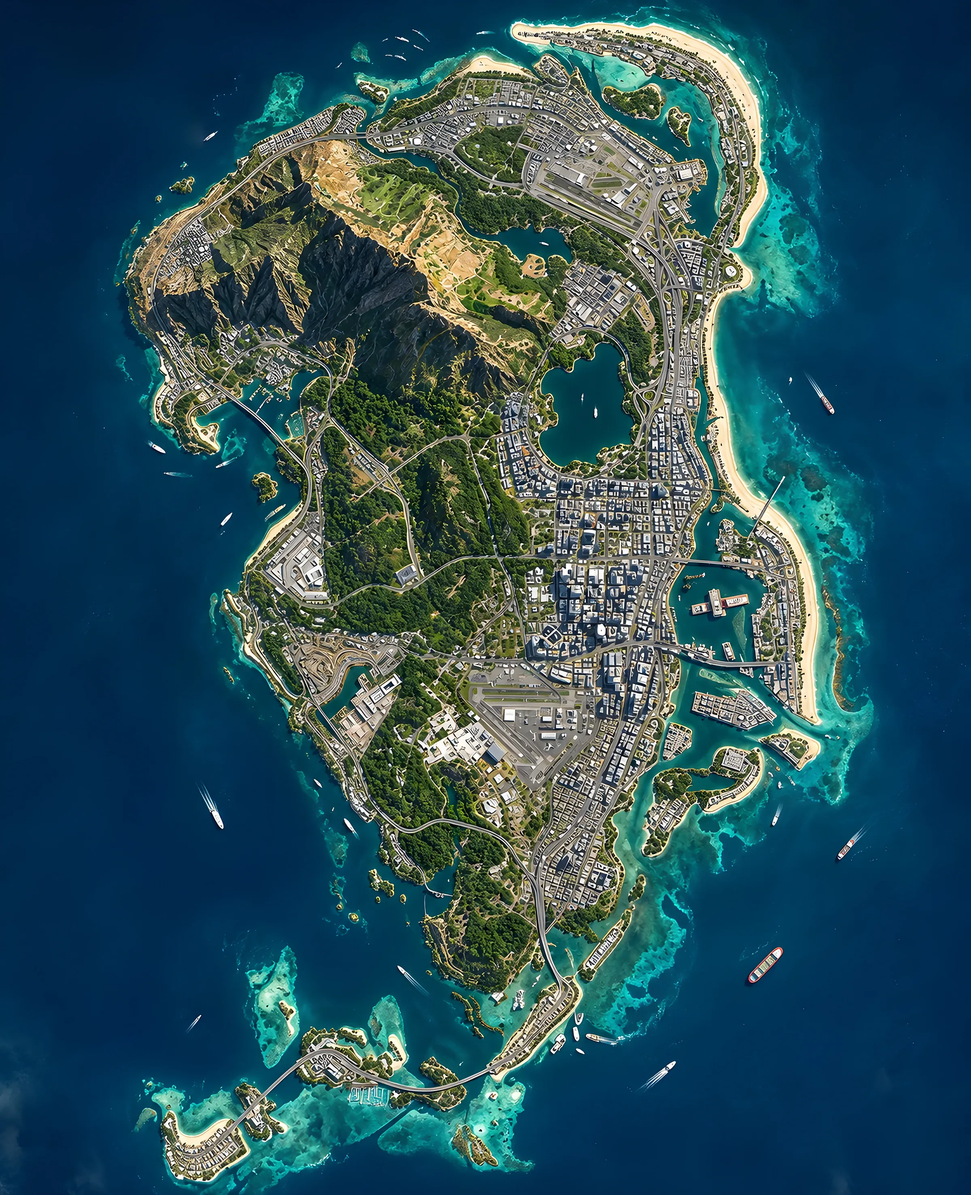
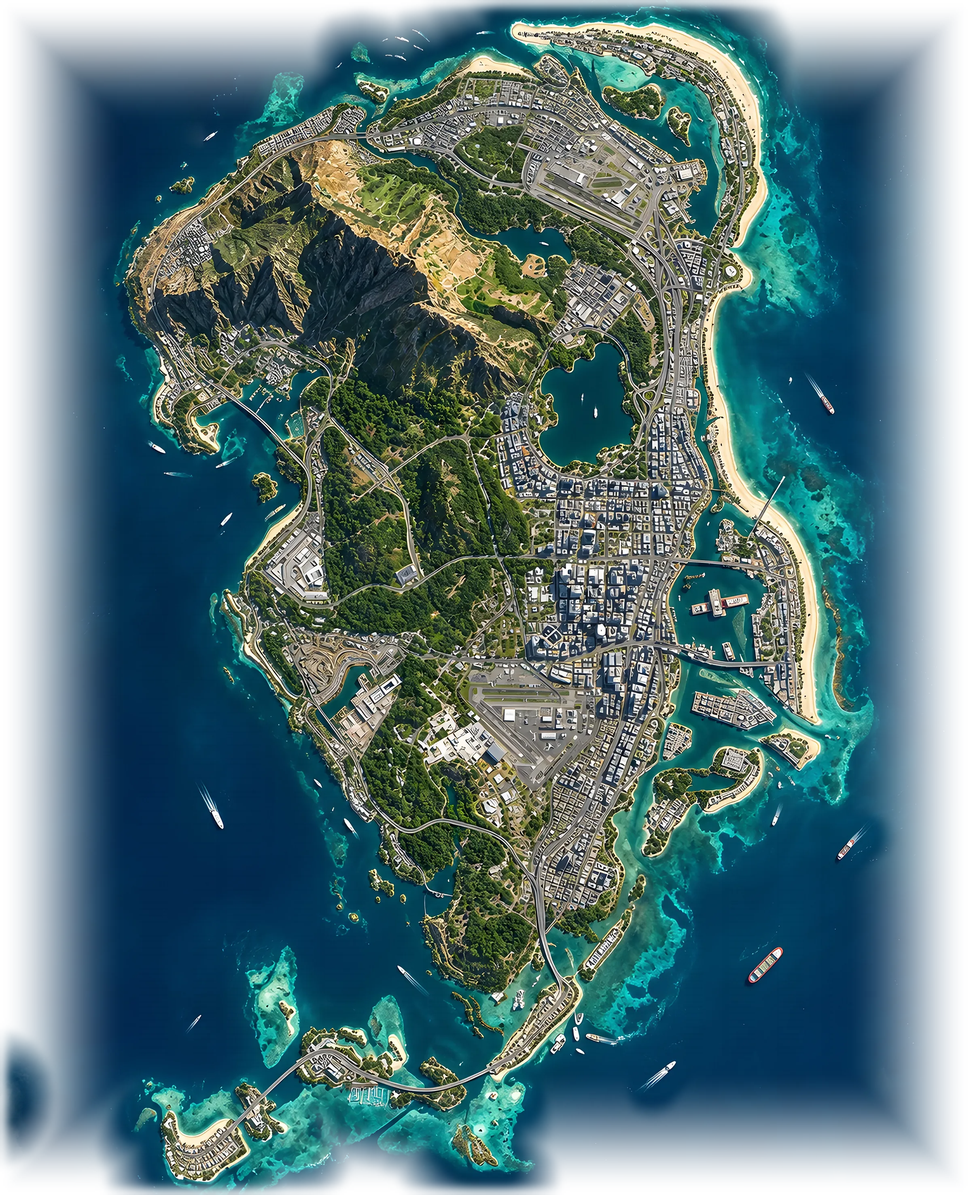
Phone map: free drag/pinch like Google Maps, no cut edges, fewer layouts
- On phones the map is always in free mode: drag to move, pinch to zoom
  (up to 6x fit, never past the whole map), tap a stop to open it. goTo()
  flies the free camera (new world.flyTo), so start / jump-now / stop list /
  #m-N / the phone's map tab all work. '📍 אנחנו כאן' in the phone's map tab
  and as a round button on the site; free-roam/back buttons hidden.
- map-lite.webp now has the edge fade baked in as alpha (no runtime mask), so
  the map no longer ends in a hard rectangle on phones.
- Phone page: the status-bar area matches the map/clips tab instead of a light band.
- world.view() caches the stage size (ResizeObserver) instead of reading
  clientWidth on every projected point - forced layout dozens of times per frame.
- Free mode skips frames while the camera is still.

Claude-Session: https://claude.ai/code/session_018kasLg3a1pY8kQGjxqJqFQ

Changed region(s): [[0.0, 0.0, 1.0, 1.0]]

diff --git a/src/main.ts b/src/main.ts
@@ -85,6 +85,9 @@ function makeClouds(urls: string[]) {
 
 // ── העולם ──
 let onMapReady: (() => void) | null = null;
+// בטלפון: המפה עובדת כמו Google Maps – גוררים כדי לזוז, צובטים לזום, לוחצים על עצירה. בלי "גלילה" בין עצירות
+const freeMap = !flat && matchMedia('(max-width: 760px), (pointer: coarse)').matches;
+if (freeMap) stage.classList.add('is-freemap');
 const world = createWorld(stage, () => {
   rebuild();
   stage.classList.add('is-ready');
@@ -133,6 +136,15 @@ function rebuild() {
   liveTrail = trail;
   life?.setTrail(trail);
   buildLamps(trail);
+  // בטלפון: נכנסים למצב חופשי רק אחרי שיש מסלול, מהמצלמה של מבט הפתיחה (כל המפה)
+  if (freeMap && !world.exploring()) {
+    requestAnimationFrame(() => {
+      if (world.exploring() || !curve) return;
+      frame(true);
+      world.explore(true);
+      if (focus >= 0) goTo(Math.round(focus)); // קישור ישיר / טאב המפה: טסים לעצירה
+    });
+  }
 
   const sNow = cur >= 0 ? curve.stopS[cur] : 0;
   const done = curve.path(0, sNow || 0.01);
@@ -806,12 +818,28 @@ addEventListener('keydown', (e) => {
 
 // ── גרירה חופשית ──
 function explore(on: boolean) {
+  if (freeMap && !on) return; // בטלפון תמיד במצב חופשי
   world.explore(on);
   document.documentElement.classList.toggle('no-scroll', on);
   if (!on) frame(true);
 }
 q('[data-explore]').onclick = () => explore(true);
 q('[data-explore-close]').onclick = () => explore(false);
+// "אנחנו כאן": בטלפון טס לעצירה הנוכחית (בתוך הטלפון – בשורת הכפתורים; באתר – כפתור עגול)
+{
+  const here = q<HTMLButtonElement>('[data-here]');
+  here.hidden = !freeMap;
+  here.onclick = () => goTo(cur);
+  if (freeMap && !embed) {
+    const fab = h('button', { type: 'button', class: 'here-fab', ariaLabel: 'אנחנו כאן: לעצירה הנוכחית' }, '📍');
+    fab.onclick = () => goTo(cur);
+    stage.append(fab);
+  }
+  // גרירה ראשונה בטלפון מסתירה את כרטיס הפתיחה (נכנסים למפה)
+  stage.addEventListener('pointermove', () => {
+    if (freeMap && focus < -0.5 && stage.classList.contains('is-dragging') && data?.missions.length) focus = shown = 0;
+  });
+}
 
 // ── גלילה ← מצלמה: האתר לא נגלל; גלילה למעלה מקדמת במסע, גלילה למטה חוזרת ──
 const PX_WHEEL = 300; // כמה פיקסלים של גלגלת לכל עצירה
@@ -829,6 +857,14 @@ function layout() {}
 
 function goTo(i: number) {
   if (flat || !data) return;
+  // בטלפון: טסים לעצירה (או לכל המפה) במצלמה החופשית
+  if (freeMap && world.exploring() && curve) {
+    focus = shown = clampF(i);
+    const p = i >= 0 ? curve.stops[Math.min(i, curve.stops.length - 1)] : null;
+    const { w: W, h: H } = world.size();
+    world.flyTo(p ? { x: p.x, y: p.y, z: world.fitZ() * 3.2 } : { x: W / 2, y: H / 2, z: world.fitZ() });
+    return;
+  }
   focus = clampF(i);
   travelTo = Math.abs(focus - shown) > 1.5 && i >= 0 ? focus : null;
   if (reduce) shown = focus;
@@ -1017,6 +1053,7 @@ window.addEventListener('oded:fx', (e) => {
 });
 
 let last = performance.now();
+let lastFreeKey = '';
 function frame(force = false) {
   if (!curve || !data) return;
   const now = performance.now();
@@ -1032,6 +1069,14 @@ function frame(force = false) {
   const wantTilt = reduce || world.exploring() ? 0 : tripTilt * easeT;
   const settling = Math.abs(wantShift - panelShift) > 0.5 || Math.abs(wantTilt - tiltShown) > 0.05;
   if (!force && Math.abs(focus - shown) < 0.0004 && !world.exploring() && !settling) return;
+  // מצב חופשי (טלפון): כשהמצלמה עומדת, הדמות במקום ואין סקר – אין מה לצייר מחדש
+  if (world.exploring() && !force && !settling) {
+    const c = world.camera();
+    const key = `${c.x.toFixed(2)}|${c.y.toFixed(2)}|${c.z.toFixed(5)}|${shown}|${cur}`;
+    const still = key === lastFreeKey && (playerS === null || !curve.stops[cur] || Math.abs(curve.sOf(cur) - playerS) < 0.5) && !control.pollAt();
+    lastFreeKey = key;
+    if (still) return;
+  }
   const k1 = force || reduce ? 1 : 1 - Math.exp(-dt * 6);
   shown += (focus - shown) * k1;
   panelShift += (wantShift - panelShift) * (force || reduce ? 1 : 1 - Math.exp(-dt * 8));

diff --git a/src/journey/world.ts b/src/journey/world.ts
@@ -112,7 +112,12 @@ export function createWorld(stage: HTMLElement, onSize: (w: number, h: number) =
     });
   }
 
-  const view = () => ({ w: stage.clientWidth, h: stage.clientHeight });
+  // גודל הבמה נשמר ומתעדכן רק בשינוי גודל: קריאה ל-clientWidth בכל הקרנה של נקודה גרמה לחישוב פריסה מחדש עשרות פעמים בפריים
+  let vsize = { w: stage.clientWidth, h: stage.clientHeight };
+  const measure = () => (vsize = { w: stage.clientWidth, h: stage.clientHeight });
+  new ResizeObserver(measure).observe(stage);
+  addEventListener('resize', measure);
+  const view = () => (vsize.w ? vsize : measure());
 
   /** זום שבו כל המפה נכנסת במסך */
   function fitZ() {
@@ -176,7 +181,8 @@ export function createWorld(stage: HTMLElement, onSize: (w: number, h: number) =
   // לא מתרחקים יותר מכל המפה על המסך (התרחקות מעבר לזה שברה את התצוגה)
   const minZ = () => fitZ();
   // לא מתקרבים מעבר למה שיש לו פיקסלים אמיתיים (אחרת מטושטש)
-  const maxZ = () => Math.max(fitZ() * 2.5, Math.min(fitZ() * 10, ((hdSets[hdSets.length - 1]?.set.w ?? W) / W) / devicePixelRatio));
+  const coarse = matchMedia('(max-width: 760px), (pointer: coarse)').matches;
+  const maxZ = () => (coarse ? fitZ() * 6 : Math.max(fitZ() * 2.5, Math.min(fitZ() * 10, ((hdSets[hdSets.length - 1]?.set.w ?? W) / W) / devicePixelRatio)));
 
   /** גבולות: מרכז המצלמה נשאר בתוך המפה */
   // בטיול חופשי מותר לצאת גם אל הים שמסביב למפה (עד שליש מפה לכל צד)
@@ -356,6 +362,22 @@ export function createWorld(stage: HTMLElement, onSize: (w: number, h: number) =
       tilt = deg;
     },
     tilt: () => tilt,
+    /** טיסה רכה של המצלמה החופשית לנקודה (בטלפון: לחיצה על "אנחנו כאן", עצירה מהרשימה וכו') */
+    flyTo(t: { x: number; y: number; z: number }, ms = 900) {
+      if (!free) return;
+      cancelAnimationFrame(glide);
+      const from = { ...free };
+      const z1 = Math.min(maxZ(), Math.max(minZ(), t.z));
+      const to = { x: bound(t.x, W), y: bound(t.y, H) };
+      const start = performance.now();
+      const step = () => {
+        const k = Math.min(1, (performance.now() - start) / ms);
+        const e = 1 - Math.pow(1 - k, 3);
+        free = raw = { x: from.x + (to.x - from.x) * e, y: from.y + (to.y - from.y) * e, z: from.z * Math.pow(z1 / from.z, e) };
+        if (k < 1) glide = requestAnimationFrame(step);
+      };
+      glide = requestAnimationFrame(step);
+    },
     explore(on: boolean) {
       cancelAnimationFrame(glide);
       free = on ? { ...cam } : null;

diff --git a/index.html b/index.html
@@ -30,7 +30,7 @@
             <p class="stamp"><img class="opening__logo" src="./icons/oded-96.png" alt="" width="40" height="40" />OdedSVR · המסע</p>
             <h1 class="opening__title" id="journey-title">סאבתון GTA 6</h1>
             <p class="opening__how">כל משימה מהסאבתון, במקום שבו היא קרתה, וכל מה שקרה בדרך: מיתות, רכבים, החלטות של הצ׳אט וסטוריז שלכם. גוללים כדי לנסוע לאורך המסלול, לוחצים על סימן כדי לפתוח אותו.</p>
-            <p class="opening__hint"><span class="hint-desk">גוללים למעלה כדי להתקדם, ולמטה כדי לחזור</span><span class="hint-touch">מחליקים ימינה כדי להתקדם, ושמאלה כדי לחזור</span></p>
+            <p class="opening__hint"><span class="hint-desk">גוללים למעלה כדי להתקדם, ולמטה כדי לחזור</span><span class="hint-touch">גוררים כדי לטייל במפה, צובטים לזום, לוחצים על עצירה כדי לפתוח</span></p>
             <div class="opening__actions">
               <button class="btn btn--primary" type="button" data-start>מתחילים מההתחלה</button>
               <button class="btn" type="button" data-jump-now>קפיצה לעכשיו</button>
@@ -47,6 +47,7 @@
             <div class="locator" data-locator aria-hidden="true"></div>
             <div class="hud__actions">
               <button class="btn btn--small" type="button" data-cinema>מצב קולנוע</button>
+              <button class="btn btn--small" type="button" data-here hidden>📍 אנחנו כאן</button>
               <button class="btn btn--small" type="button" data-list hidden>כל העצירות</button>
               <button class="btn btn--small" type="button" data-explore>לטייל חופשי</button>
             </div>

diff --git a/src/control/control.css b/src/control/control.css
@@ -627,7 +627,7 @@ button.pc__opt:active { transform: scale(0.985); }
 .hud__actions [data-list][hidden] { display: none !important; }
 .is-embed .hud__actions .btn { min-height: 44px; padding: 0 16px; font-size: 15px; }
 .is-embed .locator { display: block !important; position: absolute; left: 14px; right: auto; bottom: calc(14px + var(--safe-b, 0px)); z-index: 6; }
-.is-embed .is-free .hud__actions { display: none !important; }
+.is-embed .is-free:not(.is-freemap) .hud__actions { display: none !important; }
 /* עמוד עצירה פתוח (מסך מלא): הכפתורים הצפים לא מסתירים את התוכן */
 .journey__stage:has(.panel.is-menu[data-open]) :is(.phone-btn, .poll-chip) { display: none !important; }
 
@@ -664,3 +664,9 @@ button.pc__opt:active { transform: scale(0.985); }
   .poll-line path { filter: none; animation: none; }
   .ticker__win { mask-image: none; -webkit-mask-image: none; }
 }
+
+/* ── טלפון: מפה חופשית (גרירה/צביטה) ── */
+.is-freemap .explore-close, .is-freemap [data-explore] { display: none !important; }
+.is-freemap.is-free { cursor: default; }
+.here-fab { position: absolute; z-index: 7; right: 12px; bottom: calc(150px + var(--safe-b, 0px)); display: grid; place-items: center; width: 48px; height: 48px; padding: 0; border-radius: 50%; border: 1px solid var(--m-edge); background: rgba(8, 12, 22, 0.9); font-size: 22px; box-shadow: 0 6px 16px rgba(0, 0, 0, 0.45); cursor: pointer; }
+.journey__stage:has(.panel.is-menu[data-open]) .here-fab { display: none; }

diff --git a/src/phone-app/app.css b/src/phone-app/app.css
@@ -324,3 +324,6 @@ body[data-tab]:not([data-tab='home']) .app { grid-template-rows: 1fr calc(var(--
 .cmts__who { overflow: hidden; text-overflow: ellipsis; white-space: nowrap; }
 .cmts .btn--primary { flex: none; }
 .cmt__body, .cmts__input { overflow-wrap: anywhere; }
+/* אזור השעון למעלה בצבע התוכן (ולא פס בהיר) */
+body[data-tab='map'] .app { background: #0b2a45; }
+body[data-tab='clips'] .app { background: #0b0814; }
